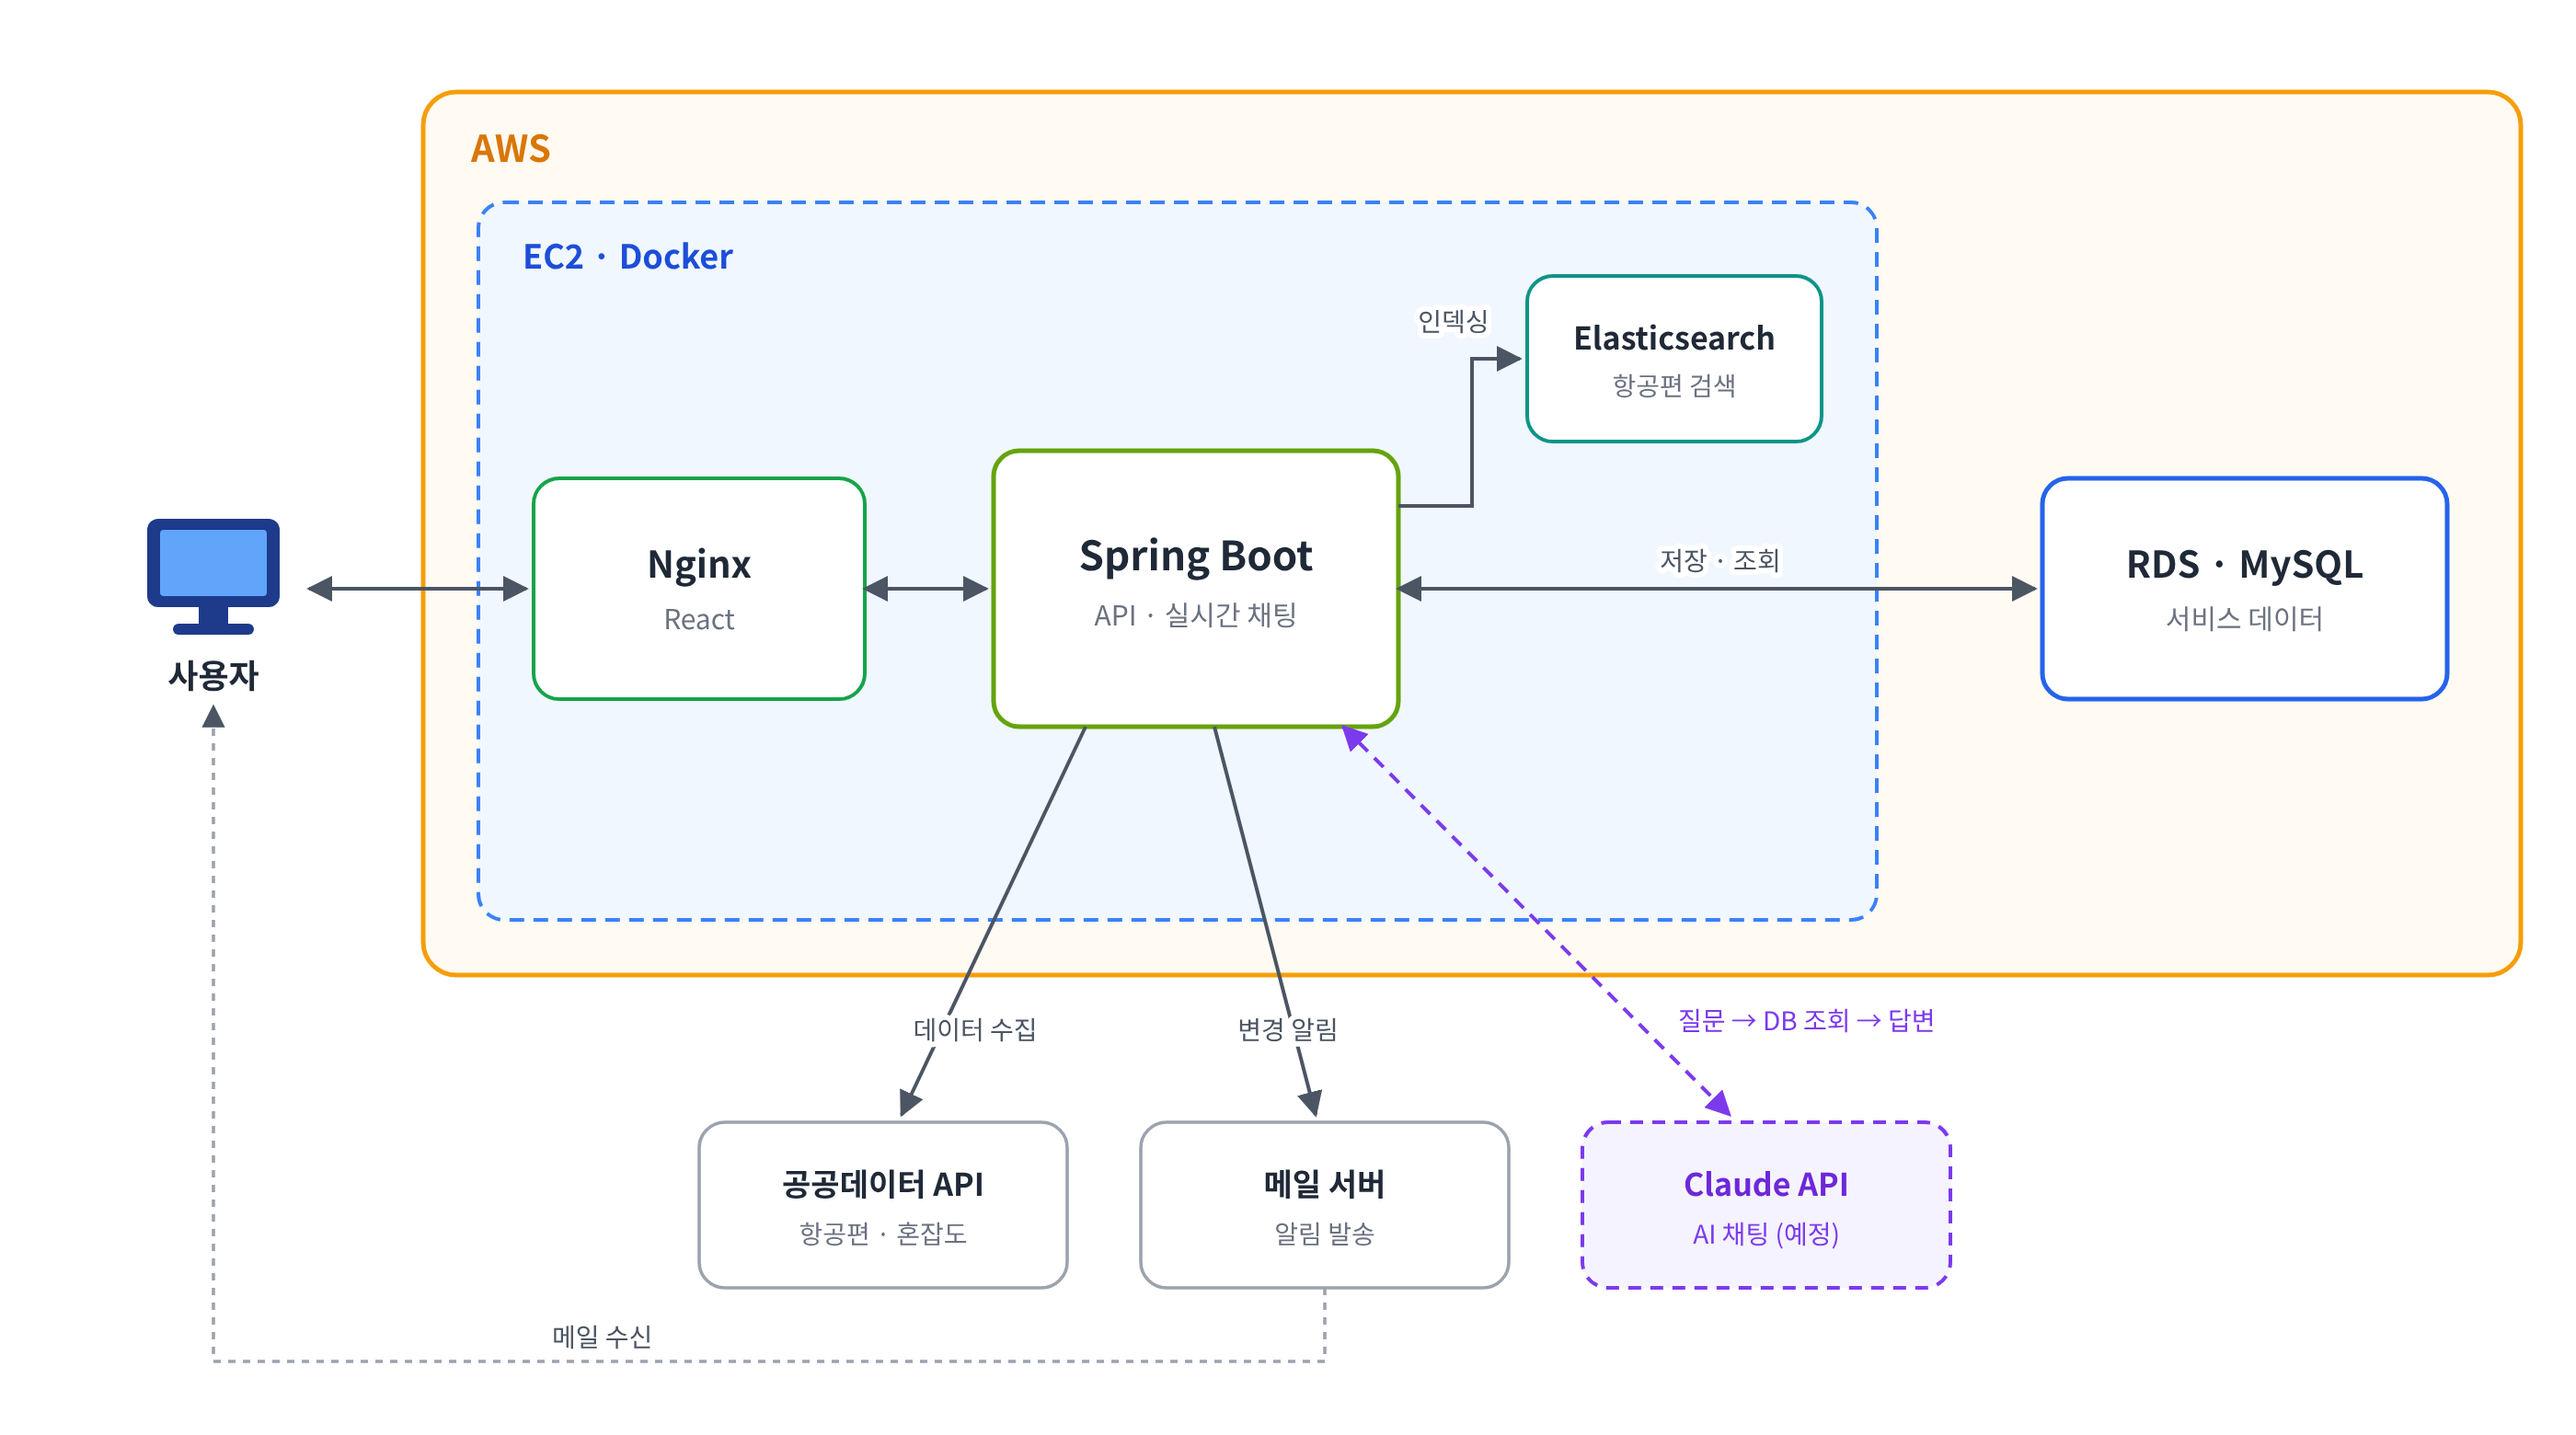
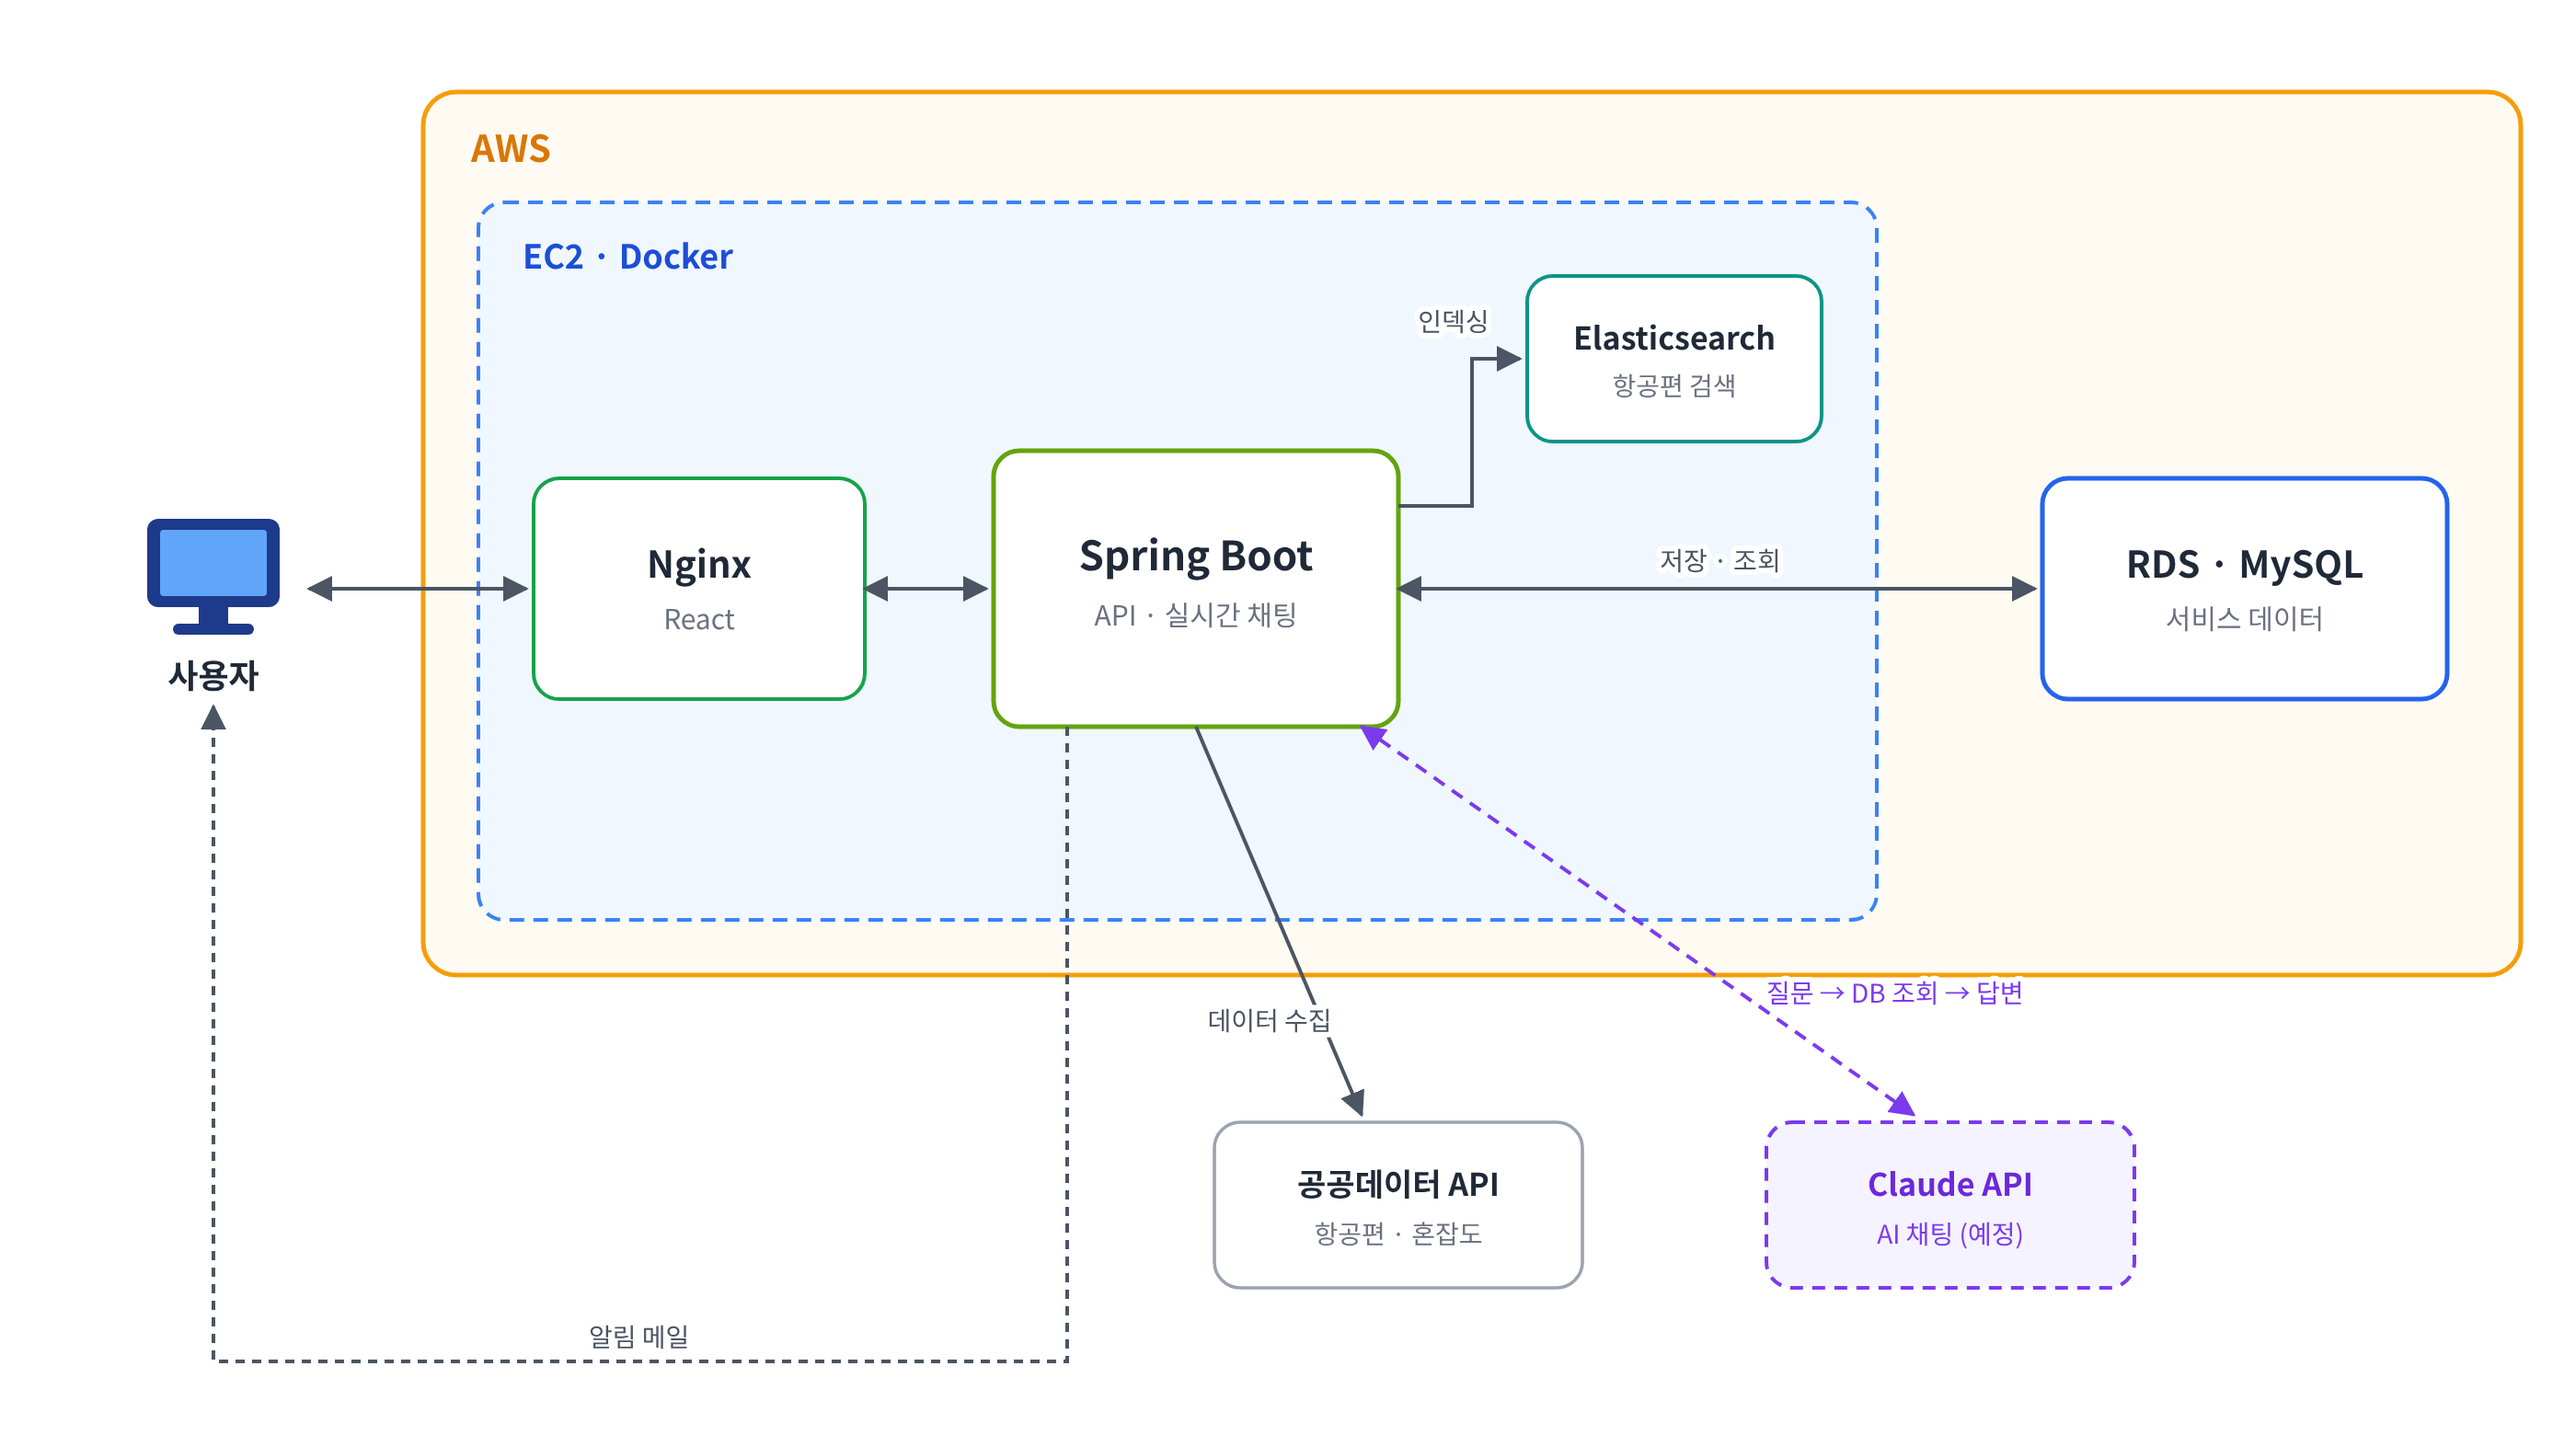
docs 아키텍처에서 메일 발송 주체를 Spring 서버로 수정
메일은 Spring 서버가 JavaMailSender로 직접 발송하므로
별도 메일 서버 박스를 제거하고 서버에서 사용자로 바로 연결한다.

Claude-Session: https://claude.ai/code/session_019y3u7JkEVWPXV4npdBjJaC

diff --git a/docs/architecture/architecture.html b/docs/architecture/architecture.html
@@ -38,22 +38,17 @@
   <text x="935" y="310" class="lb" text-anchor="middle">저장 · 조회</text>
   <path d="M760 275 H800 V195 H826" fill="none" stroke="#4b5563" stroke-width="2" marker-end="url(#a)"/>
   <text x="790" y="180" class="lb" text-anchor="middle">인덱싱</text>
-  <rect x="380" y="610" width="200" height="90" rx="14" fill="#fff" stroke="#9ca3af" stroke-width="1.8"/>
-  <text x="480" y="650" font-size="17" class="t" text-anchor="middle">공공데이터 API</text>
-  <text x="480" y="676" font-size="14" class="s" text-anchor="middle">항공편 · 혼잡도</text>
-  <rect x="620" y="610" width="200" height="90" rx="14" fill="#fff" stroke="#9ca3af" stroke-width="1.8"/>
-  <text x="720" y="650" font-size="17" class="t" text-anchor="middle">메일 서버</text>
-  <text x="720" y="676" font-size="14" class="s" text-anchor="middle">알림 발송</text>
-  <rect x="860" y="610" width="200" height="90" rx="14" fill="#f5f3ff" stroke="#7c3aed" stroke-width="2" stroke-dasharray="7 5"/>
-  <text x="960" y="650" font-size="17" fill="#6d28d9" font-weight="700" text-anchor="middle">Claude API</text>
-  <text x="960" y="676" font-size="14" fill="#7c3aed" text-anchor="middle">AI 채팅 (예정)</text>
-  <line x1="590" y1="395" x2="490" y2="606" stroke="#4b5563" stroke-width="2" marker-end="url(#a)"/>
-  <text x="530" y="565" class="lb" text-anchor="middle">데이터 수집</text>
-  <line x1="660" y1="395" x2="715" y2="606" stroke="#4b5563" stroke-width="2" marker-end="url(#a)"/>
-  <text x="700" y="565" class="lb" text-anchor="middle">변경 알림</text>
-  <line x1="730" y1="395" x2="940" y2="606" stroke="#7c3aed" stroke-width="2" stroke-dasharray="7 5" marker-start="url(#ap)" marker-end="url(#ap)"/>
-  <text x="912" y="560" class="lb" style="fill:#7c3aed" text-anchor="start">질문 → DB 조회 → 답변</text>
-  <path d="M720 700 V740 H116 V384" fill="none" stroke="#9ca3af" stroke-width="1.8" stroke-dasharray="4 4" marker-end="url(#a)"/>
-  <text x="300" y="732" class="lb">메일 수신</text>
+  <rect x="660" y="610" width="200" height="90" rx="14" fill="#fff" stroke="#9ca3af" stroke-width="1.8"/>
+  <text x="760" y="650" font-size="17" class="t" text-anchor="middle">공공데이터 API</text>
+  <text x="760" y="676" font-size="14" class="s" text-anchor="middle">항공편 · 혼잡도</text>
+  <rect x="960" y="610" width="200" height="90" rx="14" fill="#f5f3ff" stroke="#7c3aed" stroke-width="2" stroke-dasharray="7 5"/>
+  <text x="1060" y="650" font-size="17" fill="#6d28d9" font-weight="700" text-anchor="middle">Claude API</text>
+  <text x="1060" y="676" font-size="14" fill="#7c3aed" text-anchor="middle">AI 채팅 (예정)</text>
+  <line x1="650" y1="395" x2="740" y2="606" stroke="#4b5563" stroke-width="2" marker-end="url(#a)"/>
+  <text x="690" y="560" class="lb" text-anchor="middle">데이터 수집</text>
+  <line x1="740" y1="395" x2="1040" y2="606" stroke="#7c3aed" stroke-width="2" stroke-dasharray="7 5" marker-start="url(#ap)" marker-end="url(#ap)"/>
+  <text x="960" y="545" class="lb" style="fill:#7c3aed" text-anchor="start">질문 → DB 조회 → 답변</text>
+  <path d="M580 395 V740 H116 V384" fill="none" stroke="#4b5563" stroke-width="2" stroke-dasharray="5 4" marker-end="url(#a)"/>
+  <text x="320" y="732" class="lb">알림 메일</text>
 </svg>
 </body></html>
